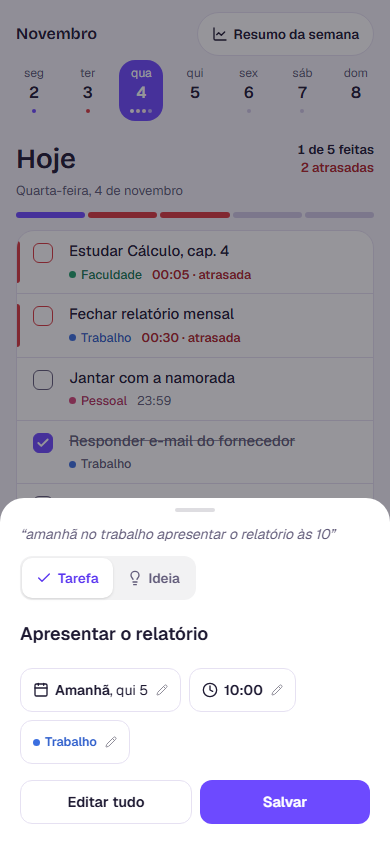
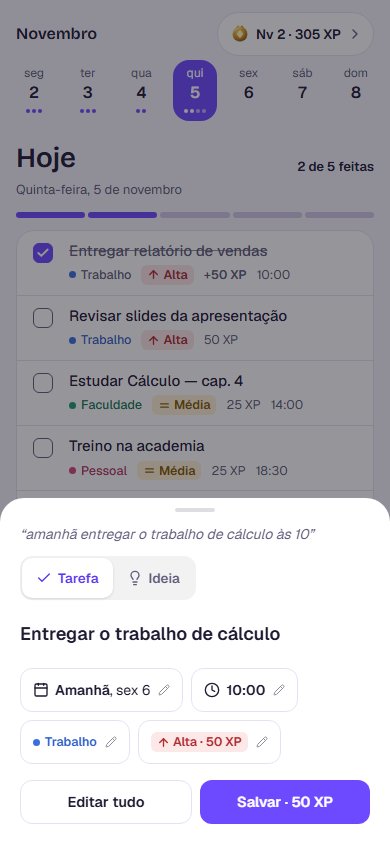
Atualiza README e capturas de tela

diff --git a/README.md b/README.md
@@ -14,10 +14,11 @@ Aplicativo web pessoal para organizar a semana e o dia a dia. Reúne tarefas do 
 
 ## Funcionalidades
 
-- **Hoje:** tarefas do dia com faixa da semana, placar (feitas, atrasadas, não feitas) e anotação fixada do dia.
-- **Captura rápida:** o usuário escreve ou fala uma frase livre (ex.: "estudar cálculo amanhã às 14h"); a IA interpreta título, data, horário e área, e tudo passa por uma tela de confirmação editável antes de salvar.
-- **Áreas:** cada tarefa recebe uma etiqueta (Trabalho, Faculdade ou Pessoal) identificada automaticamente.
-- **Resumo semanal:** desempenho de segunda a sábado, gráfico dia a dia e lista do que ficou pendente.
+- **Hoje:** tarefas do dia com faixa da semana, placar (feitas, atrasadas, não feitas) e anotação fixada do dia. As tarefas ficam ordenadas por dificuldade.
+- **Captura rápida:** o usuário escreve ou fala uma frase livre (ex.: "estudar cálculo amanhã às 14h"); a IA interpreta título, data, horário, área e dificuldade, e tudo passa por uma tela de confirmação editável antes de salvar.
+- **Áreas e dificuldade:** cada tarefa recebe uma etiqueta de área (Trabalho, Faculdade ou Pessoal) e uma dificuldade (baixa, média ou alta).
+- **Progresso:** tarefas concluídas rendem pontos de experiência conforme a dificuldade, que se somam num nível e numa medalha da semana.
+- **Resumo semanal:** desempenho de segunda a sábado, gráfico dia a dia, medalha da semana e lista do que ficou pendente.
 - **Ideias:** notas em pastas, com título, texto, link com prévia e opção de fixar ou transformar em tarefa.
 - **Acesso protegido:** o app só abre após login.
 
@@ -25,7 +26,7 @@ Aplicativo web pessoal para organizar a semana e o dia a dia. Reúne tarefas do 
 
 | Camada | Tecnologias |
 |---|---|
-| Frontend | React 19, TypeScript, Vite, Tailwind CSS, PWA |
+| Frontend | React 19, TypeScript, Vite, Tailwind CSS, Lucide (ícones), PWA |
 | Backend | Cloudflare Workers, Hono, Zod |
 | Banco de dados | Cloudflare D1 (SQLite) |
 | IA | Workers AI (interpretação de texto e transcrição de áudio com Whisper), com regras de reserva |
@@ -39,7 +40,7 @@ Um único Cloudflare Worker serve a interface (arquivos estáticos gerados pelo 
 ```
 src/        → interface React (telas, componentes e hooks)
 worker/     → API (rotas de tarefas, ideias, captura e relatório), autenticação e IA
-shared/     → regras de negócio compartilhadas (datas, status, relatório)
+shared/     → regras de negócio compartilhadas (datas, status, relatório, pontuação)
 migrations/ → estrutura do banco D1
 tests/      → testes de unidade, do Worker e de navegador
 ```
